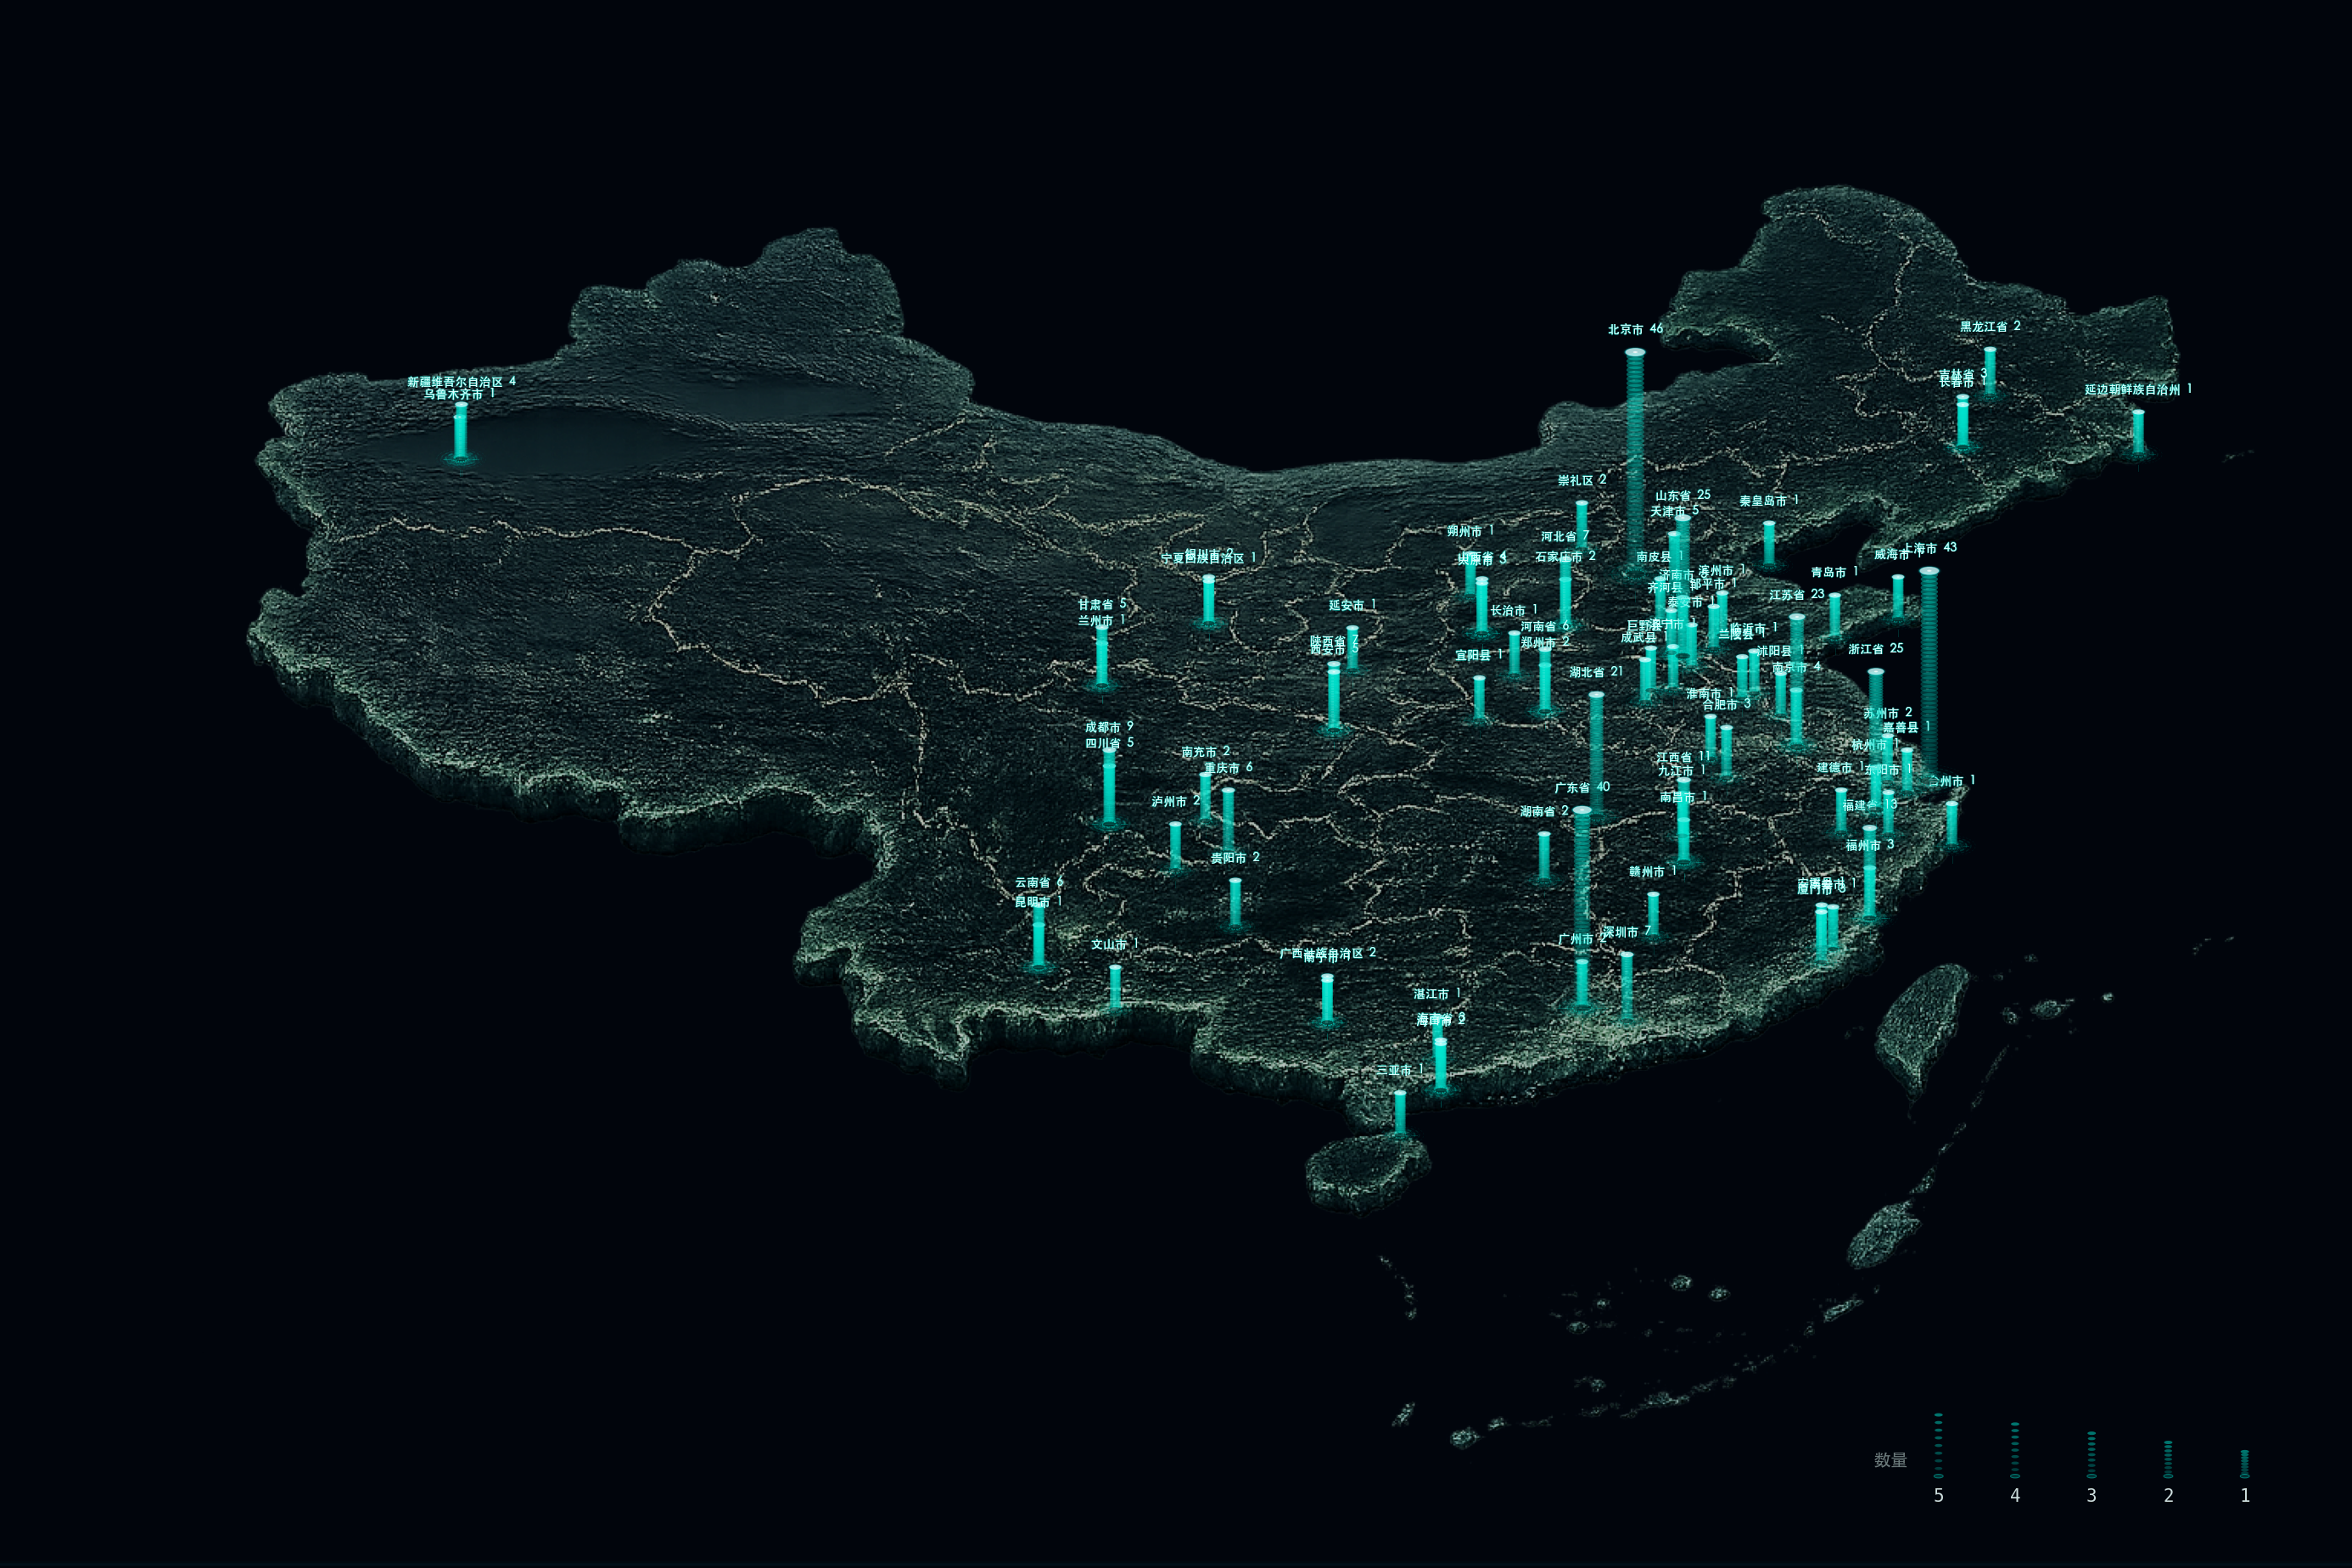
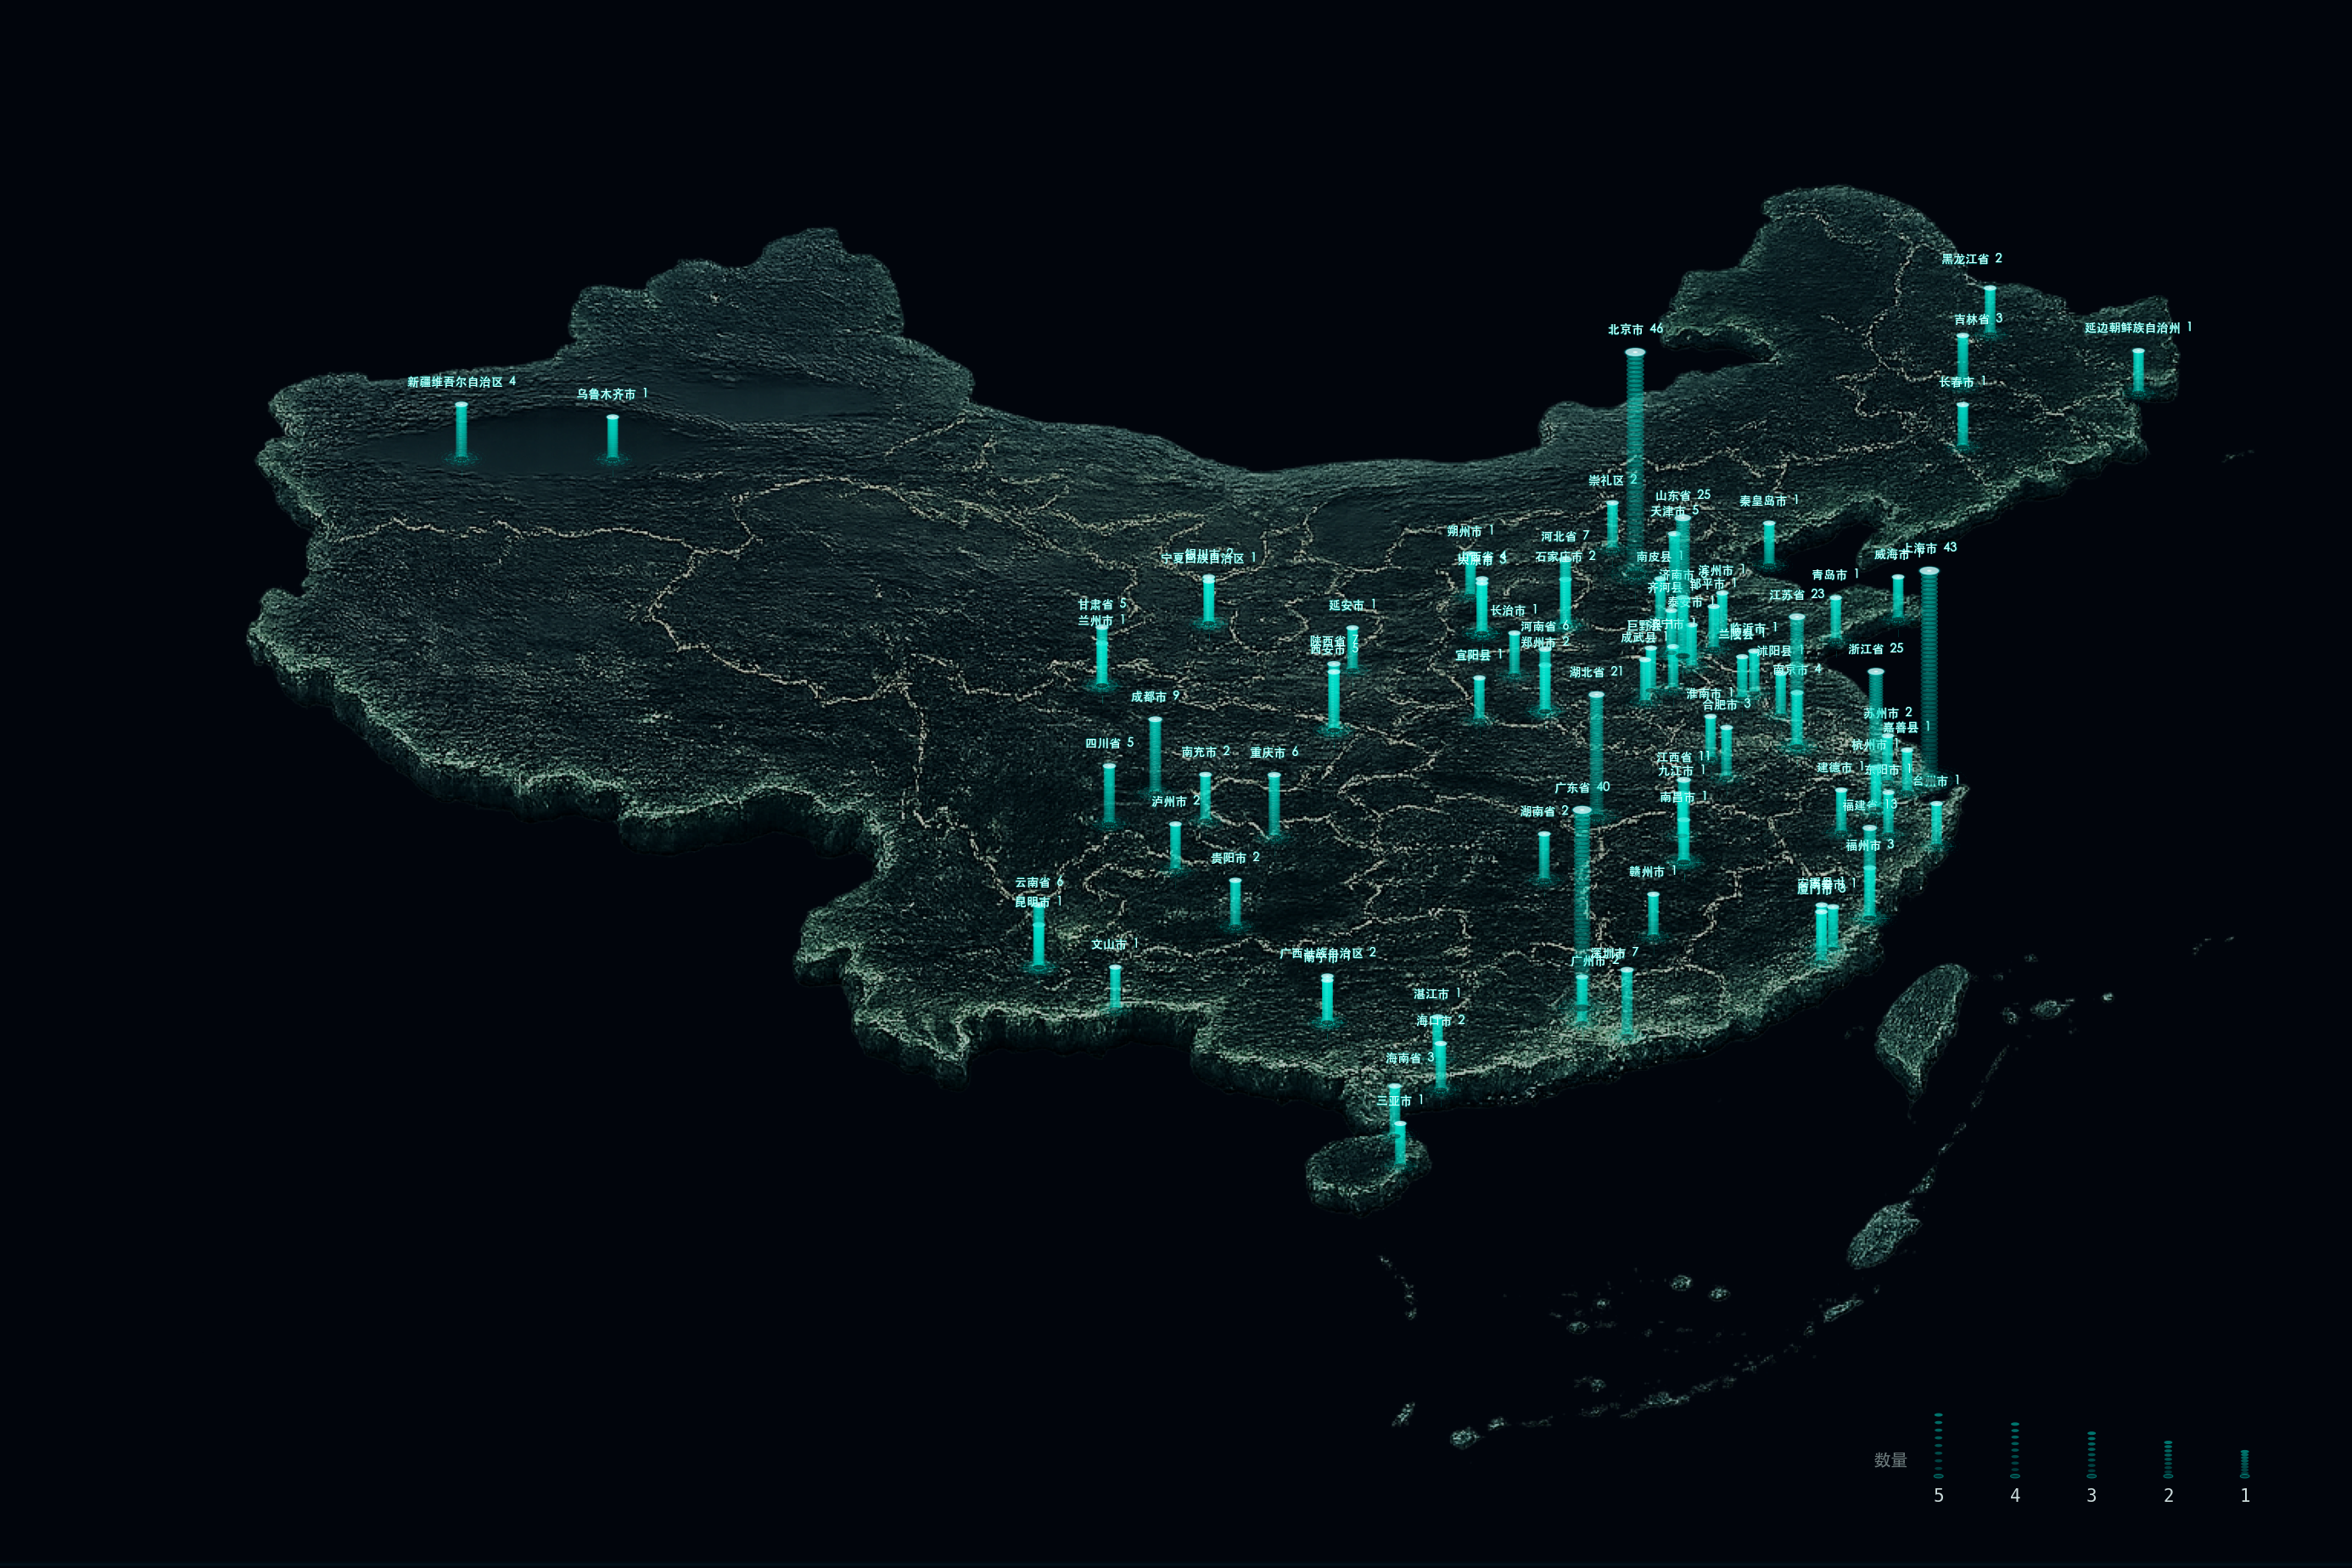
Add files via upload
更新 IB 全屏图

diff --git a/js/app.js b/js/app.js
@@ -108240,7 [phone redacted],7 @@ function shouldUseStaticFootprintMap() {
 
 function footprintStaticImageSrc() {
   return {
-    magnus1180: "assets/magnus-ib-pillars-static.png?v=1",
+    magnus1180: "assets/magnus-ib-pillars-static.png?v=2",
     magnus2026Funnel: "assets/magnus-funnel-pillars-static.png?v=1",
     tegris: "assets/tegris-pillars-static.png?v=1",
     icMic: "assets/ic-mic-pillars-static.png?v=1"